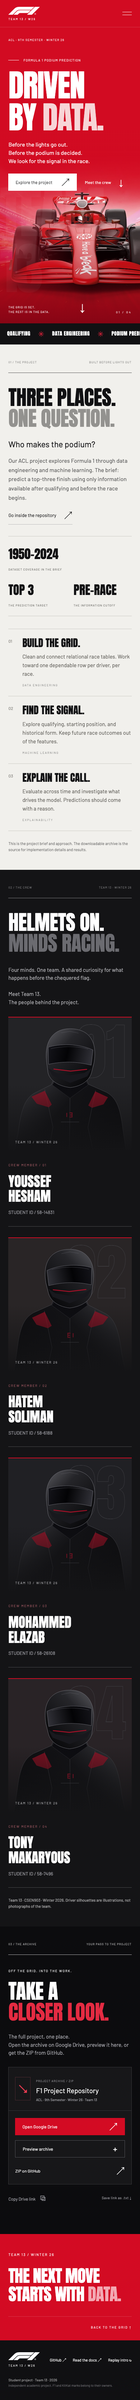
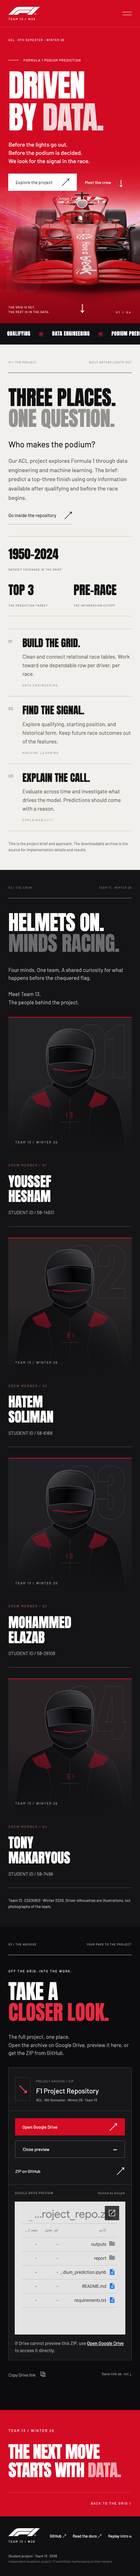
Open the archive preview by default and smooth disclosure motion
Animate preview and mobile navigation expansion and collapse while keeping reduced-motion behavior immediate. Refresh the guide and real archive captures.

Changed region(s): [[0.0, 0.0, 1.0, 0.9964], [0.8615, 0.6539, 0.8923, 0.685]]

diff --git a/website/index.html b/website/index.html
@@ -65,7 +65,7 @@
     <nav class="desktop-nav" aria-label="Main navigation"><a href="#project">The project</a><a href="#crew">The crew</a><a href="#archive">The archive</a></nav>
     <a class="header-cta" data-link="drive" href="https://drive.google.com/file/d/1DqSlh85tX_Q4ai2vMS4IBDJC6TlLHCPO/view?usp=sharing" target="_blank" rel="noopener noreferrer">Get the project <span>↗</span></a>
     <button class="menu-toggle" id="menu-toggle" aria-expanded="false" aria-controls="mobile-nav" aria-label="Open navigation"><span></span><span></span></button>
-    <nav class="mobile-nav" id="mobile-nav" aria-label="Mobile navigation" hidden><a href="#project">The project</a><a href="#crew">The crew</a><a href="#archive">The archive</a></nav>
+    <nav class="mobile-nav disclosure" id="mobile-nav" aria-label="Mobile navigation" hidden><div class="disclosure-content"><div class="mobile-nav-links"><a href="#project">The project</a><a href="#crew">The crew</a><a href="#archive">The archive</a></div></div></nav>
   </header>
   <main id="main">
     <section class="hero" id="home" aria-labelledby="hero-title">
@@ -109,9 +109,9 @@
     <section class="archive section" id="archive" aria-labelledby="archive-title">
       <div class="section-label"><span>03 / THE ARCHIVE</span><span>YOUR PASS TO THE PROJECT</span></div>
       <div class="archive-heading reveal"><div><p class="eyebrow">OFF THE GRID. INTO THE WORK.</p><h2 id="archive-title">TAKE A<br><span>CLOSER LOOK.</span></h2></div><p>The full project, one place.<br>Open the archive on Google Drive, preview it here, or get the ZIP from GitHub.</p></div>
-      <div class="archive-panel reveal"><div class="archive-file"><span class="file-icon">↘</span><div><span class="eyebrow">PROJECT ARCHIVE / ZIP</span><h3>F1 Project Repository</h3><p>ACL · 9th Semester · Winter 26 · Team 13</p></div><span class="archive-version">PROJECT FILES</span></div><div class="archive-actions"><a class="button button-red" data-link="drive" href="https://drive.google.com/file/d/1DqSlh85tX_Q4ai2vMS4IBDJC6TlLHCPO/view?usp=sharing" target="_blank" rel="noopener noreferrer">Open Google Drive <span>↗</span></a><button class="button button-outline" id="preview-toggle" aria-expanded="false" aria-controls="drive-preview">Preview archive <span>+</span></button><a class="text-link" data-link="zip" href="https://github.com/CodeNKoffee/acl9-winter26-team13/blob/main/F1%20Project%20Repository.zip" target="_blank" rel="noopener noreferrer">ZIP on GitHub <span>↗</span></a></div><div class="preview" id="drive-preview" hidden><div class="preview-top"><p>GOOGLE DRIVE PREVIEW</p><span>Hosted by Google</span></div><iframe title="Google Drive preview of F1 Project Repository ZIP" data-src="https://drive.google.com/file/d/1DqSlh85tX_Q4ai2vMS4IBDJC6TlLHCPO/preview" width="640" height="480" loading="lazy" referrerpolicy="no-referrer" allow="fullscreen"></iframe><p class="preview-help">If Drive cannot preview this ZIP, use <a data-link="drive" href="https://drive.google.com/file/d/1DqSlh85tX_Q4ai2vMS4IBDJC6TlLHCPO/view?usp=sharing" target="_blank" rel="noopener noreferrer">Open Google Drive</a> to access it directly.</p></div></div>
+      <div class="archive-panel reveal"><div class="archive-file"><span class="file-icon">↘</span><div><span class="eyebrow">PROJECT ARCHIVE / ZIP</span><h3>F1 Project Repository</h3><p>ACL · 9th Semester · Winter 26 · Team 13</p></div><span class="archive-version">PROJECT FILES</span></div><div class="archive-actions"><a class="button button-red" data-link="drive" href="https://drive.google.com/file/d/1DqSlh85tX_Q4ai2vMS4IBDJC6TlLHCPO/view?usp=sharing" target="_blank" rel="noopener noreferrer">Open Google Drive <span>↗</span></a><button class="button button-outline" id="preview-toggle" aria-expanded="true" aria-controls="drive-preview">Close preview <span>−</span></button><a class="text-link" data-link="zip" href="https://github.com/CodeNKoffee/acl9-winter26-team13/blob/main/F1%20Project%20Repository.zip" target="_blank" rel="noopener noreferrer">ZIP on GitHub <span>↗</span></a></div><div class="preview disclosure" id="drive-preview"><div class="disclosure-content"><div class="preview-inner"><div class="preview-top"><p>GOOGLE DRIVE PREVIEW</p><span>Hosted by Google</span></div><iframe title="Google Drive preview of F1 Project Repository ZIP" src="https://drive.google.com/file/d/1DqSlh85tX_Q4ai2vMS4IBDJC6TlLHCPO/preview" width="640" height="480" loading="lazy" referrerpolicy="no-referrer" allow="fullscreen"></iframe><p class="preview-help">If Drive cannot preview this ZIP, use <a data-link="drive" href="https://drive.google.com/file/d/1DqSlh85tX_Q4ai2vMS4IBDJC6TlLHCPO/view?usp=sharing" target="_blank" rel="noopener noreferrer">Open Google Drive</a> to access it directly.</p></div></div></div></div>
       <div class="archive-bottom"><button class="copy-link" id="copy-link">Copy Drive link <span>⧉</span></button><p id="copy-status" role="status" aria-live="polite"></p><a href="project-link.txt" download>Save link as .txt <span>↓</span></a></div>
-      <noscript><p class="noscript-note">The full project is available through the Google Drive and GitHub links above. JavaScript enables the intro, mobile menu, copy button, and embedded preview.</p></noscript>
+      <noscript><p class="noscript-note">The full project is available through the Google Drive and GitHub links above. The preview also works without JavaScript. JavaScript enables the intro, mobile menu, copy button, and preview toggle.</p></noscript>
     </section>
     <section class="closing"><span class="eyebrow">TEAM 13 / WINTER 26</span><p>THE NEXT MOVE<br>STARTS WITH <span>DATA.</span><span class="closing-arrow" aria-hidden="true">↗</span></p><a href="#home">BACK TO THE GRID ↑</a></section>
   </main>

diff --git a/website/assets/app.js b/website/assets/app.js
@@ -30,31 +30,33 @@ document.querySelectorAll('.reveal').forEach(element => observer.observe(element
 
 const menuToggle = document.querySelector('#menu-toggle');
 const mobileNav = document.querySelector('#mobile-nav');
+function setDisclosure(toggle, panel, expanded) {
+  toggle.setAttribute('aria-expanded', String(expanded));
+  panel.classList.toggle('is-collapsed', !expanded);
+  panel.inert = !expanded;
+}
+setDisclosure(menuToggle, mobileNav, false);
+mobileNav.hidden = false;
 function closeMenu() {
-  menuToggle.setAttribute('aria-expanded', 'false');
+  setDisclosure(menuToggle, mobileNav, false);
   menuToggle.setAttribute('aria-label', 'Open navigation');
-  mobileNav.hidden = true;
 }
 menuToggle.addEventListener('click', () => {
   const expanded = menuToggle.getAttribute('aria-expanded') === 'true';
-  mobileNav.hidden = expanded;
-  menuToggle.setAttribute('aria-expanded', String(!expanded));
+  setDisclosure(menuToggle, mobileNav, !expanded);
   menuToggle.setAttribute('aria-label', expanded ? 'Open navigation' : 'Close navigation');
 });
 mobileNav.querySelectorAll('a').forEach(link => link.addEventListener('click', closeMenu));
 document.addEventListener('keydown', event => {
-  if (event.key === 'Escape' && !mobileNav.hidden) { closeMenu(); menuToggle.focus(); }
+  if (event.key === 'Escape' && menuToggle.getAttribute('aria-expanded') === 'true') { closeMenu(); menuToggle.focus(); }
 });
 matchMedia('(min-width: 761px)').addEventListener('change', event => { if (event.matches) closeMenu(); });
 
 const previewToggle = document.querySelector('#preview-toggle');
 const preview = document.querySelector('#drive-preview');
-const previewFrame = preview.querySelector('iframe');
 previewToggle.addEventListener('click', () => {
   const expanded = previewToggle.getAttribute('aria-expanded') === 'true';
-  if (!expanded && !previewFrame.hasAttribute('src')) previewFrame.src = project.preview;
-  preview.hidden = expanded;
-  previewToggle.setAttribute('aria-expanded', String(!expanded));
+  setDisclosure(previewToggle, preview, !expanded);
   previewToggle.innerHTML = expanded ? 'Preview archive <span>+</span>' : 'Close preview <span>−</span>';
 });
 

diff --git a/website/assets/styles.css b/website/assets/styles.css
@@ -625,7 +625,27 @@ h2>span {
   margin-left:auto;
   font-size:12px;
 }
+.disclosure {
+  grid-template-rows:1fr;
+  opacity:1;
+  visibility:visible;
+  transition:grid-template-rows .5s cubic-bezier(.22,1,.36,1),opacity .3s ease,visibility 0s;
+}
+.disclosure.is-collapsed {
+  grid-template-rows:0fr;
+  opacity:0;
+  visibility:hidden;
+  pointer-events:none;
+  transition:grid-template-rows .5s cubic-bezier(.22,1,.36,1),opacity .25s ease,visibility 0s .5s;
+}
+.disclosure-content {
+  min-height:0;
+  overflow:hidden;
+}
 .preview {
+  display:grid;
+}
+.preview-inner {
   border-top:1px solid #37373a;
   padding:25px 30px;
 }
@@ -637,6 +657,7 @@ h2>span {
   font-size:9px;
 }
 .preview iframe {
+  display:block;
   width:100%;
   height:480px;
   background:#fff;
@@ -969,16 +990,19 @@ h2>span {
     transform:translateY(-4px) rotate(-45deg);
   }
   .mobile-nav:not([hidden]) {
-    display:flex;
+    display:grid;
     position:absolute;
     top:76px;
     left:0;
     right:0;
-    padding:25px 6%;
     background:#111113;
+    font-size:17px;
+  }
+  .mobile-nav-links {
+    display:flex;
     flex-direction:column;
     gap:22px;
-    font-size:17px;
+    padding:25px 6%;
     border-bottom:1px solid #555;
   }
   .hero {
@@ -1210,7 +1234,7 @@ h2>span {
     width:100%;
     order:3;
   }
-  .preview {
+  .preview-inner {
     padding:17px;
   }
   .preview iframe {

diff --git a/website/assets/config.js b/website/assets/config.js
@@ -1,6 +1,6 @@
 export const project = Object.freeze({
   name: 'Team 13',
-  version: '1.2.1',
+  version: '1.2.2',
   drive: 'https://drive.google.com/file/d/1DqSlh85tX_Q4ai2vMS4IBDJC6TlLHCPO/view?usp=sharing',
   preview: 'https://drive.google.com/file/d/1DqSlh85tX_Q4ai2vMS4IBDJC6TlLHCPO/preview',
   repo: 'https://github.com/CodeNKoffee/acl9-winter26-team13',

diff --git a/website/docs/DEVELOPMENT.md b/website/docs/DEVELOPMENT.md
@@ -11,7 +11,7 @@
 
 [Project archive](https://drive.google.com/file/d/1DqSlh85tX_Q4ai2vMS4IBDJC6TlLHCPO/view?usp=sharing) · [Run locally](#run-locally) · [Deploy](#deploy-your-own) · [User guide](wiki/Home.md) · [GitHub Wiki](https://github.com/CodeNKoffee/acl9-winter26-team13/wiki)
 
-<a href="CHANGELOG.md"><img alt="Version 1.2.1" src="https://img.shields.io/badge/version-1.2.1-d30b23"></a>
+<a href="CHANGELOG.md"><img alt="Version 1.2.2" src="https://img.shields.io/badge/version-1.2.2-d30b23"></a>
 <a href="../../LICENSE"><img alt="Website code: MIT" src="https://img.shields.io/badge/website_code-MIT-141414"></a>
 <img alt="HTML, CSS and JavaScript" src="https://img.shields.io/badge/stack-HTML_%2F_CSS_%2F_JS-141414">
 <img alt="ACL ninth semester, Winter 26" src="https://img.shields.io/badge/ACL-9th_semester_%C2%B7_Winter_26-141414">
@@ -31,7 +31,7 @@ The site is a showcase and archive hub. It does not execute a model or present u
 | | |
 |---|---|
 | ![Red racing hero](readme/hero.png) **Driven by data.** The supplied KitKat car image with a red fade and racing typography. | ![Project overview](readme/project.png) **Before lights out.** The pre-race cutoff and project approach, explained plainly. |
-| ![Team 13 crew](readme/crew.png) **Helmets on.** Four named members from the course roster, represented by original helmeted silhouettes. | ![Project archive controls](readme/archive.png) **Get the work.** Drive, an optional embedded preview, GitHub ZIP, and a text link. |
+| ![Team 13 crew](readme/crew.png) **Helmets on.** Four named members from the course roster, represented by original helmeted silhouettes. | ![Project archive controls](readme/archive.png) **Get the work.** Drive, an expanded embedded preview, GitHub ZIP, and a text link. |
 
 <details><summary>Contents</summary>
 
@@ -57,7 +57,7 @@ The site is a showcase and archive hub. It does not execute a model or present u
 
 - [F1 Project Repository.zip](../../F1%20Project%20Repository.zip) is already in the repository root. The website setup preserves it unchanged. Archive updates remain with the project owner.
 - [project-link.txt](../project-link.txt) contains the normal shared Drive link, the preview URL, and the repository URL.
-- The website embeds `https://drive.google.com/file/d/1DqSlh85tX_Q4ai2vMS4IBDJC6TlLHCPO/preview` after **Preview archive** is selected.
+- The website embeds `https://drive.google.com/file/d/1DqSlh85tX_Q4ai2vMS4IBDJC6TlLHCPO/preview` in a preview that starts expanded. The browser lazy-loads the iframe near the archive section; **Close preview** and **Preview archive** smoothly collapse and reopen it.
 
 Drive may not render every ZIP. **Open Google Drive** and **ZIP on GitHub** remain available. Drive sharing settings are controlled by the file owner.
 
@@ -68,7 +68,7 @@ Drive may not render every ZIP. **Open Google Drive** and **ZIP on GitHub** rema
 | Racing intro | A dark car, Team 13 wordmark, and five red lights fade into the red hero. |
 | Project overview | Explains the podium target, dataset coverage from the brief, and pre-race information cutoff. |
 | Team 13 crew | Four named silhouette cards: Youssef Hesham, Hatem Soliman, Mohammed Elazab, and Tony Makaryous. Their original student IDs appear beneath each heading. |
-| Archive access | Drive link, on-demand iframe, GitHub ZIP link, clipboard copy, and `.txt` download. |
+| Archive access | Drive link, default-open lazy iframe, GitHub ZIP link, clipboard copy, and `.txt` download. |
 | Responsive layout | Desktop composition and stacked mobile sections with an accessible navigation menu. |
 | Motion controls | Honors reduced-motion preferences; the intro can be replayed from the footer. |
 | Simple hosting | Static HTML/CSS/JS, no runtime dependencies, accounts, database, or environment secrets. |
@@ -84,7 +84,7 @@ The table above shows real desktop captures. [View the full mobile capture](read
 1. The page serves complete HTML; core copy and archive links work without JavaScript.
 2. CSS crops and blends the supplied image into the hero. The original image file is copied without editing.
 3. JavaScript handles the intro, mobile menu, section reveals, preview toggle, and copy action.
-4. The Google Drive iframe loads only when the visitor opens the preview.
+4. The Google Drive preview starts expanded and uses native iframe lazy loading. Its expand/collapse transition and the mobile menu use CSS grid and opacity, with collapsed content removed from keyboard navigation.
 5. The build copies an explicit list of website assets into `dist/`. The root ZIP stays in GitHub and is excluded from website deployment.
 
 The website describes the supplied course brief: one driver per race, top-three target, and only information available after qualifying and before race start. It does not certify that the archived implementation meets the brief. This setup does not extract, audit, or modify the ZIP.
@@ -93,7 +93,7 @@ The website describes the supplied course brief: one driver per race, top-three 
 
 No analytics, advertising scripts, cookies, local storage, login, or database are added. Intro state does not persist across visits. The copy action writes the public Drive link to your clipboard when requested.
 
-Opening Drive or GitHub sends you to that service. Expanding the Drive preview loads a Google-hosted iframe, subject to Google's own behavior and policies. The website cannot change the archive or its sharing permissions. See [Your data](wiki/Your-Data.md).
+Opening Drive or GitHub sends you to that service. The default-open preview can load a Google-hosted iframe as you approach the archive section, subject to Google's own behavior and policies. The website cannot change the archive or its sharing permissions. See [Your data](wiki/Your-Data.md).
 
 ## How it is built
 
@@ -128,7 +128,7 @@ npm test
 npm run build
 ```
 
-Browser checks cover archive controls, the clipboard, `.txt` download, iframe wiring with a controlled fixture, mobile navigation, reload, six viewport widths, reduced motion, no-JavaScript access, and production CSP. Google Drive availability is external and is not certified by the fixture.
+Browser checks cover the default-open archive, repeated preview toggles, collapsed keyboard access, the clipboard, `.txt` download, iframe wiring with a controlled fixture, mobile navigation, reload, six viewport widths, reduced motion, no-JavaScript preview, and production CSP. Google Drive availability is external and is not certified by the fixture.
 
 ## Deploy your own
 

diff --git a/website/docs/wiki/Home.md b/website/docs/wiki/Home.md
@@ -13,6 +13,6 @@ A racing-inspired front door for the ACL 9th-semester Winter 26 Formula 1 podium
 | Improve the site or publish this guide | [[Contributing]] |
 | Resolve a common question | [[FAQ]] |
 
-Version 1.2.1 supports Vercel with Root Directory set to `website`. The repository provides website and archive buttons at the top of the README and groups the website source and detailed docs under `website/`. The crew uses the team's preferred display names and original student IDs. The official white F1 logo appears in the navigation and footer, alongside the four-member Team 13 crew. The lights-out intro, project overview, and archive access remain available. The website introduces the course brief; model implementation and results belong to the archive.
+Version 1.2.2 opens the archive preview by default and smooths preview and mobile-menu transitions. Vercel uses Root Directory `website`. The repository provides website and archive buttons at the top of the README and groups the website source and detailed docs under `website/`. The crew uses the team's preferred display names and original student IDs. The official white F1 logo appears in the navigation and footer, alongside the four-member Team 13 crew. The lights-out intro, project overview, and archive access remain available. The website introduces the course brief; model implementation and results belong to the archive.
 
 The planned website address is https://acl9-winter26-team13.hatemsoliman.dev. Deployment and domain connection are left to the owner.

diff --git a/website/docs/CHANGELOG.md b/website/docs/CHANGELOG.md
@@ -8,6 +8,15 @@ All notable changes are documented here using [Keep a Changelog](https://keepach
 
 - Versioned user guide in `website/docs/wiki/` and a script for publishing it to GitHub Wiki.
 
+## [1.2.2] - 2026-10-17
+
+### Changed
+
+- Opened the archive preview by default, including without JavaScript, while retaining native iframe lazy loading.
+- Added reversible height and fade transitions for the preview and mobile navigation, with immediate changes for reduced motion.
+- Kept collapsed content out of keyboard navigation and preserved the loaded iframe when reopening.
+- Updated the guide, browser checks, and archive captures for the new default.
+
 ## [1.2.1] - 2026-10-17
 
 ### Fixed
@@ -78,7 +87,8 @@ All notable changes are documented here using [Keep a Changelog](https://keepach
 
 The pre-existing `F1 Project Repository.zip` remains unchanged by this release. The website's version number describes the showcase, not the archived model or coursework.
 
-[Unreleased]: https://github.com/CodeNKoffee/acl9-winter26-team13/compare/v1.2.1...HEAD
+[Unreleased]: https://github.com/CodeNKoffee/acl9-winter26-team13/compare/v1.2.2...HEAD
+[1.2.2]: https://github.com/CodeNKoffee/acl9-winter26-team13/compare/v1.2.1...v1.2.2
 [1.2.1]: https://github.com/CodeNKoffee/acl9-winter26-team13/compare/v1.2.0...v1.2.1
 [1.2.0]: https://github.com/CodeNKoffee/acl9-winter26-team13/compare/v1.1.1...v1.2.0
 [1.1.1]: https://github.com/CodeNKoffee/acl9-winter26-team13/compare/v1.1.0...v1.1.1

diff --git a/website/docs/wiki/Project-Archive.md b/website/docs/wiki/Project-Archive.md
@@ -4,7 +4,7 @@ The main action is **Open Google Drive**. It uses the exact shared link supplied
 
 [Open F1 Project Repository ZIP](https://drive.google.com/file/d/1DqSlh85tX_Q4ai2vMS4IBDJC6TlLHCPO/view?usp=sharing)
 
-**Preview archive** expands a Google Drive iframe. The iframe does not load until selected. **Close preview** hides it. Google may be unable to preview a ZIP, or its sharing permissions may prevent access. Use the direct Drive link or **ZIP on GitHub** in that case.
+The Google Drive preview starts expanded and uses native lazy loading. **Close preview** smoothly collapses it; **Preview archive** reopens it without reloading the iframe. Reduced-motion preferences make these changes immediate. Google may be unable to preview a ZIP, or its sharing permissions may prevent access. Use the direct Drive link or **ZIP on GitHub** in that case.
 
 **Copy Drive link** copies the shared URL to the clipboard. If browser permissions prevent this, use **Save link as .txt**, which downloads `project-link.txt`.
 

diff --git a/website/docs/wiki/Your-Data.md b/website/docs/wiki/Your-Data.md
@@ -4,7 +4,7 @@ The website has no login, database, analytics, advertising scripts, cookies, loc
 
 The public Drive URL is written to the clipboard only after **Copy Drive link** is selected. The `.txt` control downloads a small static text file.
 
-Google Drive loads only after you request its preview or follow its link. Google's iframe can make its own requests and apply its own service policies. GitHub links likewise lead to GitHub. The website does not upload your files or change Drive sharing.
+The archive preview starts expanded. Its iframe uses native lazy loading, so Google Drive may load as you approach the archive section without selecting a button. Google's iframe can make its own requests and apply its own service policies. GitHub links likewise lead to GitHub. The website does not upload your files or change Drive sharing.
 
 No offline mode or service worker is provided. Save the project from Drive or GitHub if you need a local backup, subject to the archive's own licensing and terms.
 

diff --git a/website/docs/REPOSITORY-SETUP.md b/website/docs/REPOSITORY-SETUP.md
@@ -6,7 +6,7 @@
 - Topics: `formula-1`, `podium-prediction`, `machine-learning`, `data-engineering`, `academic-project`, `winter-2026`, `html`, `css`, `javascript`, `vercel`
 - About link: `https://drive.google.com/file/d/1DqSlh85tX_Q4ai2vMS4IBDJC6TlLHCPO/view?usp=sharing`, for direct access to the project archive.
 - Showcase: `https://acl9-winter26-team13.hatemsoliman.dev`, linked prominently from the README. Deployment and domain connection are managed in Vercel by the owner.
-- Release tag: `v1.2.1`, describing the website release.
+- Release tag: `v1.2.2`, describing the website release.
 - Social preview file: `website/og.png`. GitHub's custom repository social preview must be set in the repository settings by a signed-in maintainer; the website's Open Graph preview is already configured.
 
 The repository already contained its ZIP. This release leaves its content unchanged. Vercel deployment, DNS, and archive updates remain with the owner.

diff --git a/README.md b/README.md
@@ -40,7 +40,7 @@ Our project explores who finishes on the podium using information available afte
   <a href="https://acl9-winter26-team13.hatemsoliman.dev"><img src="website/docs/readme/hero.png" alt="Visit the Team 13 website: white F1 logo, red racing car, and Driven by Data headline" width="100%"></a>
 </p>
 
-The website introduces the project and team, with direct archive links and a Google Drive preview. It does not run the prediction model in the browser.
+The website introduces the project and team, with direct archive links and a Google Drive preview that starts expanded. It does not run the prediction model in the browser.
 
 [View the crew](website/docs/readme/crew.png) · [View the archive section](website/docs/readme/archive.png) · [Browse website source](website/)
 

diff --git a/website/docs/wiki/Getting-Started.md b/website/docs/wiki/Getting-Started.md
@@ -4,7 +4,7 @@ The page has four main stops: the hero, **The project**, **The crew**, and **The
 
 1. Let the short lights-out intro finish, or follow a direct section link to skip it.
 2. Choose **Explore the project** to reach the archive controls, or use the navigation to read about the project and crew.
-3. Select **Open Google Drive** to open the project file in a new tab.
+3. The archive preview is already expanded. Select **Open Google Drive** to open the project file in a new tab.
 4. Use **ZIP on GitHub** for the archive already committed at the repository root.
 
 On phones, **Open navigation** expands the section links. Choosing a link closes the menu; Escape closes it too. **Replay intro** in the footer replays the animation, unless reduced motion is enabled.
